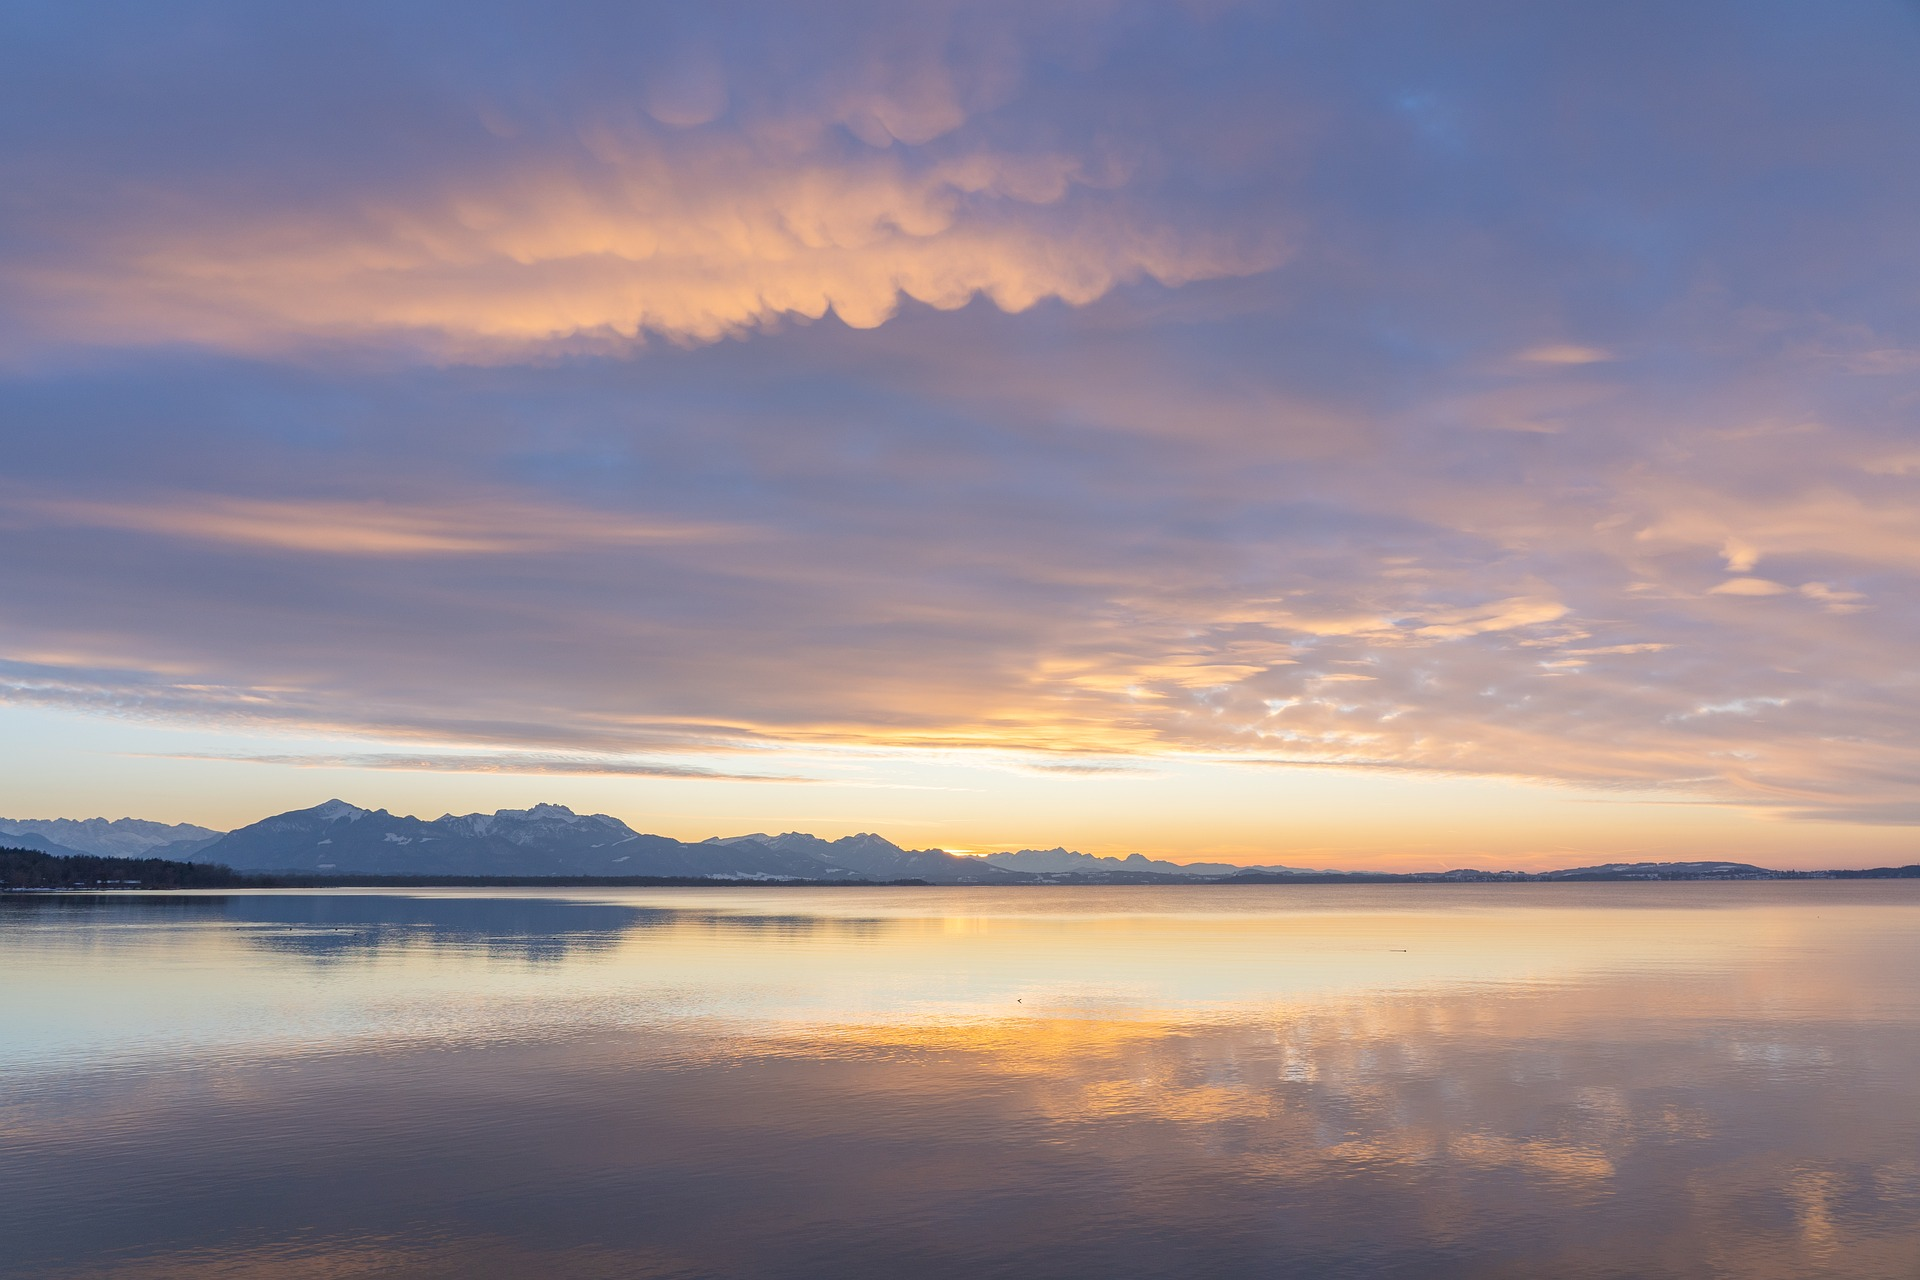
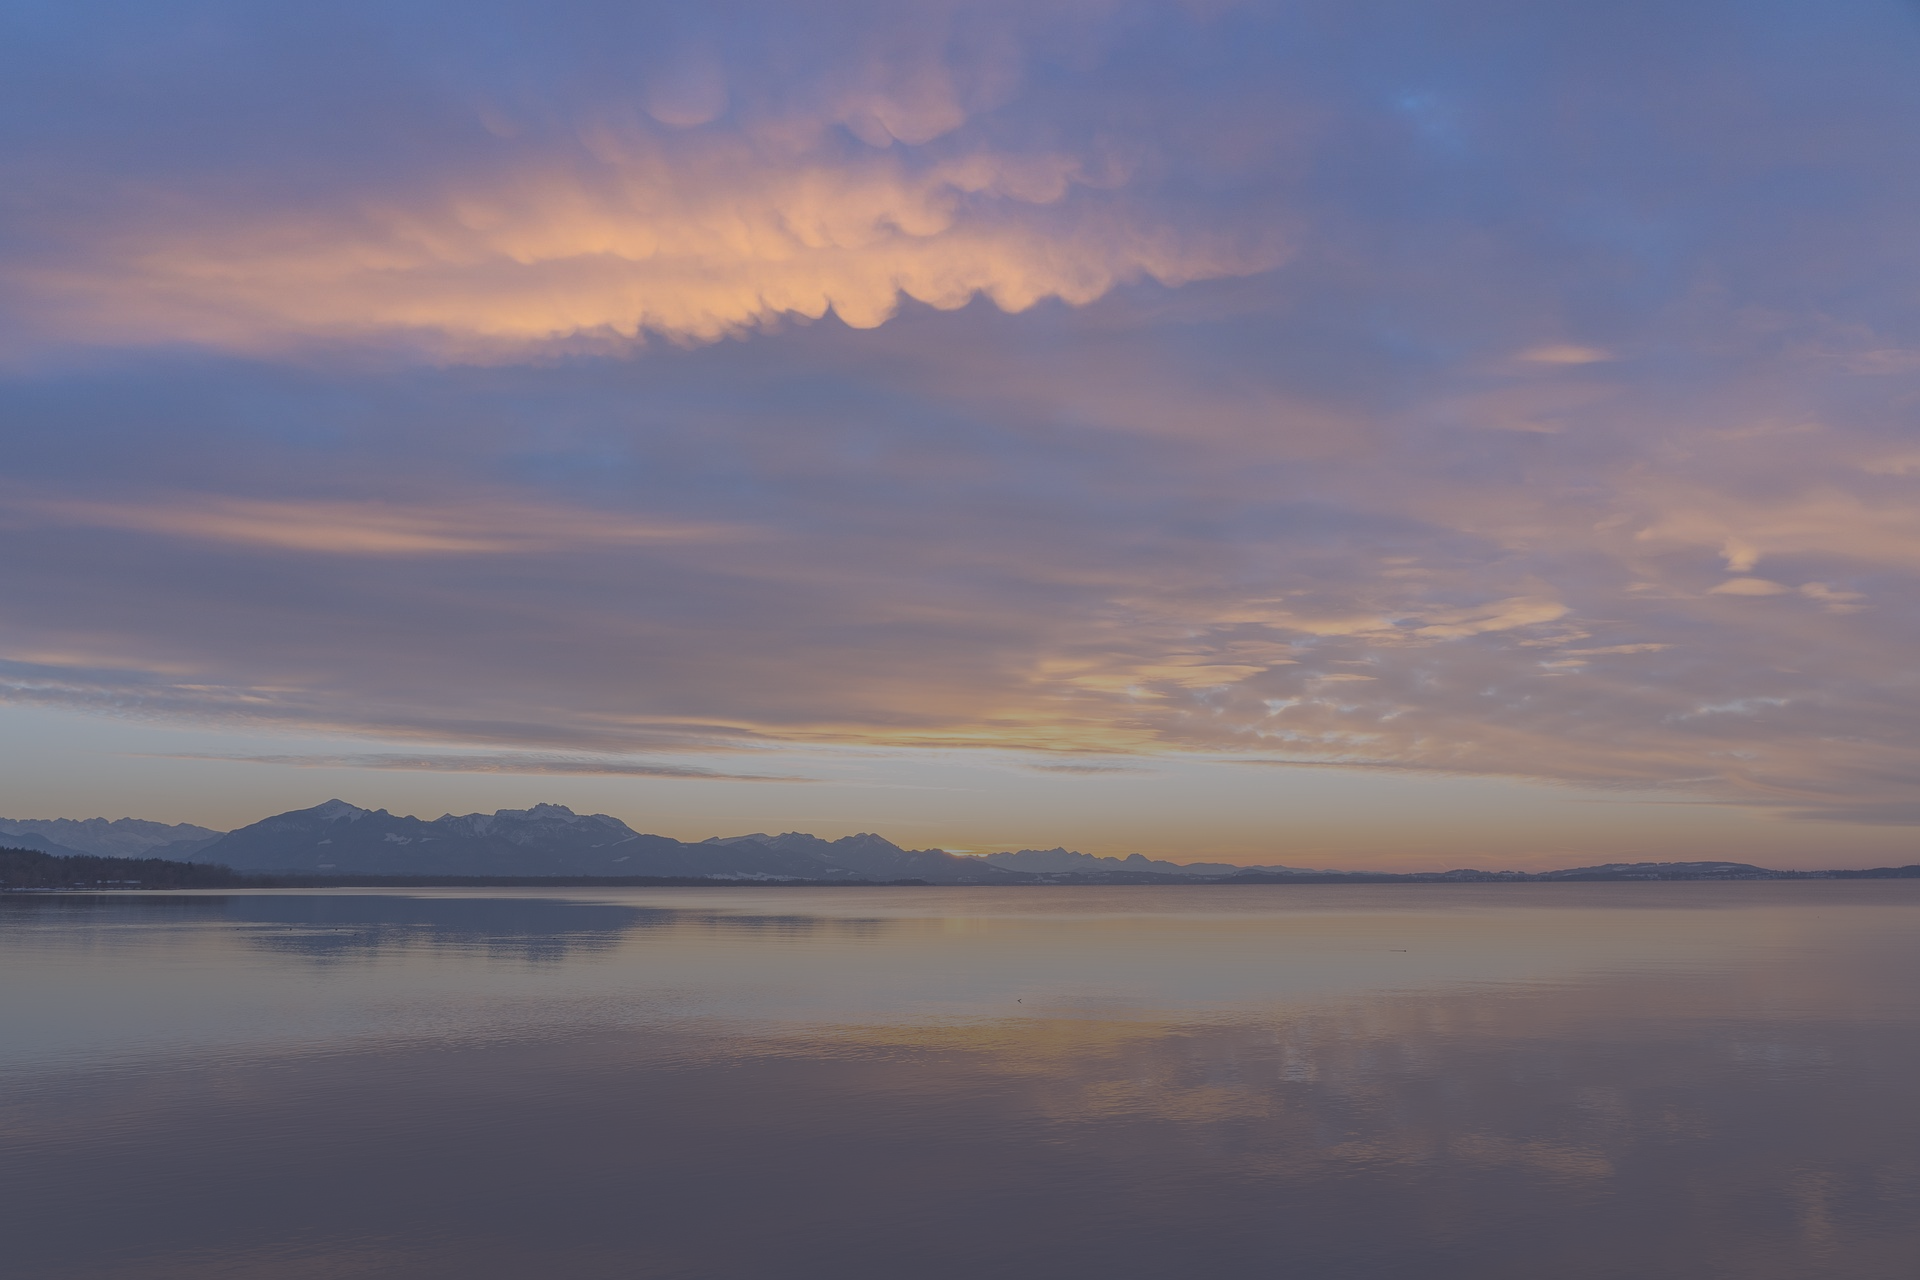
s

diff --git a/assets/main.css b/assets/main.css
@@ -47,7 +47,7 @@ table {
     box-sizing: border-box;
 }
 body {
-    background-color: #00080e;
+    background-color: #484755;
     background-image: url("img/sunset2.jpg");
     background-repeat: no-repeat;
     background-size: 100% auto;
